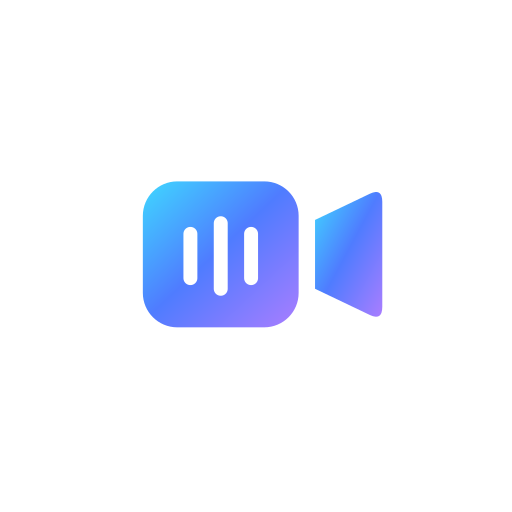
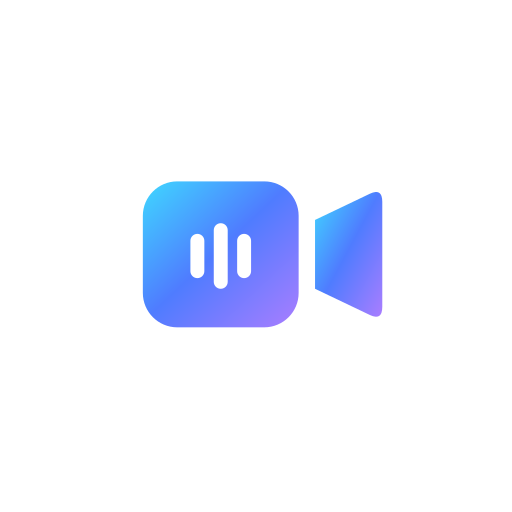
支持系统浅色/深色模式自动切换；图标改用 evenodd 镂空路径，彻底消除底色

diff --git a/index.html b/index.html
@@ -3,8 +3,9 @@
 <head>
 <meta charset="utf-8">
 <meta name="viewport" content="width=device-width, initial-scale=1, viewport-fit=cover">
-<meta name="theme-color" content="#05060a">
-<meta name="color-scheme" content="dark">
+<meta name="theme-color" content="#05060a" media="(prefers-color-scheme: dark)">
+<meta name="theme-color" content="#eef1f7" media="(prefers-color-scheme: light)">
+<meta name="color-scheme" content="dark light">
 <title>MC作业专用</title>
 
 <!-- 图标：Safari 优先用 SVG（透明背景，任意尺寸清晰） -->
@@ -16,12 +17,14 @@
 <!-- 添加到主屏幕：以独立应用方式启动，全屏无 Safari 界面 -->
 <meta name="apple-mobile-web-app-capable" content="yes">
 <meta name="mobile-web-app-capable" content="yes">
-<meta name="apple-mobile-web-app-status-bar-style" content="black-translucent">
+<meta name="apple-mobile-web-app-status-bar-style" content="default">
 <meta name="apple-mobile-web-app-title" content="MC作业">
 <meta name="application-name" content="MC作业">
 <meta name="format-detection" content="telephone=no">
 <style>
+  /* ── 主题变量 ── 深色为默认，浅色在 media query 里覆盖 */
   :root{
+    color-scheme: dark light;
     --bg:#05060a;
     --text:#f2f4f8;
     --dim:#8a90a3;
@@ -36,9 +39,62 @@
     --err:#ff5470;
     --glass:rgba(255,255,255,.045);
     --glass-2:rgba(255,255,255,.07);
+
+    /* —— 语义色，浅色模式会整体替换 —— */
+    --hair:rgba(255,255,255,.09);        /* 细分隔线 */
+    --inset:rgba(255,255,255,.045);      /* 内嵌/卡片内小元素底 */
+    --inset-2:rgba(255,255,255,.07);
+    --sunken:rgba(0,0,0,.30);            /* 凹陷容器（滑块槽等） */
+    --card-hi:rgba(255,255,255,.07);     /* 卡片顶部高光 */
+    --card-lo:rgba(0,0,0,.22);           /* 卡片底部阴影 */
+    --shadow:rgba(0,0,0,.95);
+
+    /* 背景光晕强度 */
+    --g1:rgba(63,216,255,.20);
+    --g2:rgba(157,107,255,.18);
+    --g3:rgba(79,124,255,.11);
+    --grid:rgba(255,255,255,.022);
+
+    /* 标题渐变 */
+    --h1-a:#ffffff; --h1-b:#d9ecff; --h1-c:#7ec8ff; --h1-d:#a98bff;
+    --h1-glow:rgba(90,160,255,.30);
+
     --r-lg:22px;
     --r-md:16px;
     --r-sm:12px;
+  }
+
+  /* ── 浅色模式 ── */
+  @media (prefers-color-scheme: light){
+    :root{
+      --bg:#eef1f7;
+      --text:#10131a;
+      --dim:#4a5468;
+      --dimmer:#6b7488;
+      --line:rgba(16,19,26,.10);
+      --line-hi:rgba(60,120,220,.30);
+      --ok:#0aa96b;
+      --warn:#b26a00;
+      --err:#d32f4a;
+      --glass:rgba(255,255,255,.72);
+      --glass-2:rgba(255,255,255,.85);
+
+      --hair:rgba(16,19,26,.09);
+      --inset:rgba(16,19,26,.035);
+      --inset-2:rgba(16,19,26,.055);
+      --sunken:rgba(16,19,26,.06);
+      --card-hi:rgba(255,255,255,.95);
+      --card-lo:rgba(16,19,26,.04);
+      --shadow:rgba(30,45,80,.14);
+
+      --g1:rgba(63,180,255,.30);
+      --g2:rgba(157,107,255,.24);
+      --g3:rgba(79,124,255,.16);
+      --grid:rgba(16,19,26,.035);
+
+      --h1-a:#0b0d13; --h1-b:#1b3a6b; --h1-c:#2f7fd6; --h1-d:#6a4bd8;
+      --h1-glow:rgba(80,140,230,.22);
+    }
   }
   *{box-sizing:border-box;-webkit-tap-highlight-color:transparent}
   /* 添加到主屏幕后按独立应用运行：禁用橡皮筋回弹与文字选中 */
@@ -67,8 +123,8 @@
   body::after{
     content:"";position:fixed;inset:0;z-index:-1;pointer-events:none;
     background-image:
-      linear-gradient(rgba(255,255,255,.022) 1px, transparent 1px),
-      linear-gradient(90deg, rgba(255,255,255,.022) 1px, transparent 1px);
+      linear-gradient(var(--grid) 1px, transparent 1px),
+      linear-gradient(90deg, var(--grid) 1px, transparent 1px);
     background-size:44px 44px;
     mask-image:radial-gradient(72% 58% at 50% 24%, #000 0%, transparent 82%);
     -webkit-mask-image:radial-gradient(72% 58% at 50% 24%, #000 0%, transparent 82%);
@@ -87,10 +143,10 @@
   }
   h1{
     font-size:27px;line-height:1.16;margin:0 0 8px;font-weight:700;letter-spacing:-.025em;
-    background:linear-gradient(100deg,#ffffff 0%,#d9ecff 26%,#7ec8ff 56%,#a98bff 84%,#e0b0ff 100%);
+    background:linear-gradient(100deg,var(--h1-a) 0%,var(--h1-b) 26%,var(--h1-c) 56%,var(--h1-d) 84%,var(--h1-d) 100%);
     -webkit-background-clip:text;background-clip:text;
     -webkit-text-fill-color:transparent;color:transparent;
-    filter:drop-shadow(0 0 22px rgba(90,160,255,.3));
+    filter:drop-shadow(0 0 22px var(--h1-glow));
   }
   .sub{color:var(--dim);font-size:13px;line-height:1.6}
 
@@ -105,7 +161,7 @@
     backdrop-filter:blur(24px) saturate(180%);
     -webkit-backdrop-filter:blur(24px) saturate(180%);
     box-shadow:
-      0 1px 0 rgba(255,255,255,.07) inset,
+      0 1px 0 var(--inset-2) inset,
       0 -1px 0 rgba(0,0,0,.22) inset,
       0 12px 34px -20px rgba(0,0,0,.95);
   }
@@ -116,20 +172,20 @@
   /* ── 拖放区 ── */
   .drop{
     position:relative;overflow:hidden;
-    border:1.5px dashed rgba(255,255,255,.14);
+    border:1.5px dashed var(--card-hi);
     border-radius:var(--r-lg);
     padding:34px 18px 30px;
     text-align:center;cursor:pointer;
-    background:linear-gradient(168deg,rgba(63,216,255,.075),rgba(157,107,255,.055) 58%,rgba(255,255,255,.022));
+    background:linear-gradient(168deg,rgba(63,216,255,.075),rgba(157,107,255,.055) 58%,var(--grid));
     backdrop-filter:blur(24px) saturate(180%);
     -webkit-backdrop-filter:blur(24px) saturate(180%);
-    box-shadow:0 1px 0 rgba(255,255,255,.08) inset, 0 16px 40px -24px rgba(0,0,0,.9);
+    box-shadow:0 1px 0 var(--inset-2) inset, 0 16px 40px -24px rgba(0,0,0,.9);
     transition:transform .18s cubic-bezier(.22,.9,.28,1), border-color .2s, box-shadow .2s;
     margin-bottom:13px;
   }
   .drop::after{
     content:"";position:absolute;top:-60%;left:-30%;width:60%;height:220%;
-    background:linear-gradient(105deg,transparent,rgba(255,255,255,.07),transparent);
+    background:linear-gradient(105deg,transparent,var(--inset-2),transparent);
     transform:rotate(14deg);pointer-events:none;
   }
   .drop:active{transform:scale(.982)}
@@ -142,9 +198,9 @@
   .drop .ring{
     width:64px;height:64px;margin:0 auto 16px;border-radius:50%;
     display:grid;place-items:center;
-    background:radial-gradient(circle at 34% 28%,rgba(255,255,255,.16),rgba(255,255,255,.03));
-    border:1px solid rgba(255,255,255,.14);
-    box-shadow:0 0 26px -6px rgba(63,216,255,.55), 0 1px 0 rgba(255,255,255,.16) inset;
+    background:radial-gradient(circle at 34% 28%,var(--card-hi),var(--inset));
+    border:1px solid var(--card-hi);
+    box-shadow:0 0 26px -6px rgba(63,216,255,.55), 0 1px 0 var(--card-hi) inset;
   }
   .drop .ring svg{width:27px;height:27px;stroke:url(#g1);fill:none;stroke-width:1.8;stroke-linecap:round;stroke-linejoin:round}
   .drop .t{font-size:16.5px;font-weight:620;letter-spacing:-.01em}
@@ -174,8 +230,8 @@
   .chips{display:flex;gap:6px;flex:1}
   .chip{
     flex:1;padding:8px 4px;border-radius:10px;
-    border:1px solid rgba(255,255,255,.075);
-    background:rgba(255,255,255,.028);
+    border:1px solid var(--inset-2);
+    background:var(--inset);
     color:var(--dim);font:inherit;font-size:12.5px;font-weight:550;
     cursor:pointer;text-align:center;
     transition:background .16s, color .16s, border-color .16s, box-shadow .16s;
@@ -241,8 +297,8 @@
   button.primary:active{transform:scale(.982)}
   button.primary:active::after{transform:translateX(120%)}
   button.primary:disabled{
-    background:rgba(255,255,255,.055);color:var(--dimmer);
-    box-shadow:0 1px 0 rgba(255,255,255,.05) inset;
+    background:var(--inset-2);color:var(--dimmer);
+    box-shadow:0 1px 0 var(--inset) inset;
     cursor:default;
   }
   button.primary:disabled::after{display:none}
@@ -293,10 +349,10 @@
 
   /* 进行中：去掉渐变，让进度填充成为主体 */
   .actBtn.busy{
-    background:rgba(255,255,255,.07);
+    background:var(--inset-2);
     box-shadow:
-      0 1px 0 rgba(255,255,255,.09) inset,
-      0 0 0 .5px rgba(255,255,255,.08),
+      0 1px 0 var(--hair) inset,
+      0 0 0 .5px var(--inset-2),
       0 8px 24px -16px rgba(79,124,255,.7);
     cursor:default;
   }
@@ -304,9 +360,9 @@
 
   /* 不可用（未选文件 / 校验中） */
   .actBtn.disabled{
-    background:rgba(255,255,255,.055);
+    background:var(--inset-2);
     color:var(--dimmer);
-    box-shadow:0 1px 0 rgba(255,255,255,.05) inset;
+    box-shadow:0 1px 0 var(--inset) inset;
     cursor:default;pointer-events:none;
   }
   .actBtn.disabled .actLabel{color:var(--dimmer)}
@@ -327,12 +383,12 @@
     stroke-width:2;stroke-linecap:round;stroke-linejoin:round;
     opacity:.8;
   }
-  .linkBtn:active{color:var(--dim);background:rgba(255,255,255,.045)}
+  .linkBtn:active{color:var(--dim);background:var(--inset)}
 
   /* ── 进度 ── */
   .bar{
     height:5px;border-radius:99px;overflow:hidden;margin:14px 0 10px;
-    background:rgba(255,255,255,.075);
+    background:var(--inset-2);
     box-shadow:0 1px 2px rgba(0,0,0,.4) inset;
   }
   .bar>i{
@@ -349,7 +405,7 @@
   /* ── 结果 ── */
   .divider{
     height:1px;margin:15px 0;
-    background:linear-gradient(90deg,transparent,rgba(255,255,255,.09) 18%,rgba(255,255,255,.09) 82%,transparent);
+    background:linear-gradient(90deg,transparent,var(--hair) 18%,var(--hair) 82%,transparent);
   }
   .resTop{
     display:flex;align-items:center;gap:9px;margin-bottom:14px;flex-wrap:wrap;
@@ -367,8 +423,8 @@
   .row{display:flex;gap:8px}
   .row>div{
     flex:1;padding:11px 6px;border-radius:13px;text-align:center;
-    background:rgba(255,255,255,.032);
-    border:1px solid rgba(255,255,255,.06);
+    background:var(--inset);
+    border:1px solid var(--inset-2);
     font-size:10.5px;color:var(--dim);letter-spacing:.04em;
   }
   .row b{
@@ -382,7 +438,7 @@
   .row .new b{color:var(--ok)}
   .spec{
     font-size:11.5px;color:var(--dim);line-height:1.65;margin-top:11px;
-    padding-top:11px;border-top:1px solid rgba(255,255,255,.065);
+    padding-top:11px;border-top:1px solid var(--hair);
   }
 
   .note{font-size:12.5px;color:var(--warn);margin-top:11px;line-height:1.6}
@@ -399,8 +455,8 @@
   .ver{
     display:inline-flex;align-items:center;gap:6px;
     margin-top:14px;padding:5px 12px;border-radius:99px;
-    background:rgba(255,255,255,.04);
-    border:1px solid rgba(255,255,255,.07);
+    background:var(--inset);
+    border:1px solid var(--inset-2);
     font-size:10.5px;letter-spacing:.03em;color:var(--dimmer);
     font-variant-numeric:tabular-nums;cursor:pointer;
     transition:background .15s;
@@ -412,10 +468,10 @@
   }
   .signLine{
     flex:0 1 42px;height:1px;
-    background:linear-gradient(90deg,transparent,rgba(255,255,255,.13));
+    background:linear-gradient(90deg,transparent,var(--card-hi));
   }
   .signLine:last-child{
-    background:linear-gradient(90deg,rgba(255,255,255,.13),transparent);
+    background:linear-gradient(90deg,var(--card-hi),transparent);
   }
   .signText{
     font-size:11px;color:var(--dimmer);white-space:nowrap;
@@ -432,7 +488,7 @@
     filter:drop-shadow(0 0 6px rgba(255,95,122,.55));
     display:inline-block;transform:translateY(-.5px);
   }
-  .ver:active{background:rgba(255,255,255,.09)}
+  .ver:active{background:var(--hair)}
   .verDot{
     width:5px;height:5px;border-radius:50%;background:var(--dimmer);
     box-shadow:0 0 7px 1px rgba(138,144,163,.5);flex:0 0 auto;
@@ -460,16 +516,16 @@
   .viewerClose{
     position:absolute;top:max(16px,env(safe-area-inset-top));right:16px;
     width:34px;height:34px;border-radius:50%;
-    border:1px solid rgba(255,255,255,.16);
-    background:rgba(255,255,255,.1);color:#fff;
+    border:1px solid var(--card-hi);
+    background:var(--inset-2);color:#fff;
     font-size:15px;line-height:1;cursor:pointer;
     backdrop-filter:blur(10px);-webkit-backdrop-filter:blur(10px);
   }
   .viewerBar{
     display:flex;align-items:center;gap:12px;width:100%;
     padding:11px 14px;border-radius:14px;
-    background:rgba(255,255,255,.06);
-    border:1px solid rgba(255,255,255,.09);
+    background:var(--inset-2);
+    border:1px solid var(--hair);
   }
   .viewerName{
     flex:1;min-width:0;font-size:12px;color:var(--dim);
